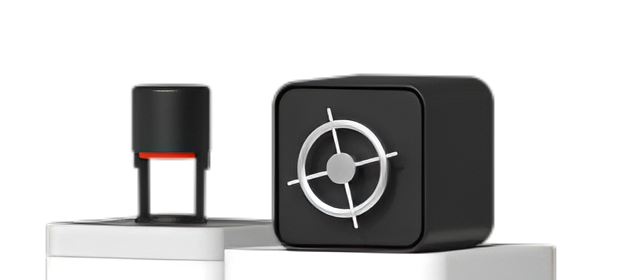
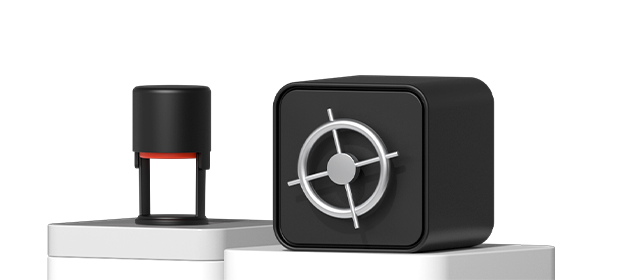
fixed images

diff --git a/styles/scss/style.css b/styles/scss/style.css
@@ -1780,6 +1780,8 @@ section {
   object-fit: cover;
   border-radius: 5px;
   display: flex;
+  -o-object-position: bottom;
+     object-position: bottom;
 }
 .information__item-subtitle.mobile {
   display: none;

diff --git a/styles/scss/section/_information.scss b/styles/scss/section/_information.scss
@@ -43,6 +43,7 @@
   object-fit: cover;
   border-radius: 5px;
   display: flex;
+  object-position: bottom;
  }
  &__item-subtitle.mobile {
   display: none;
